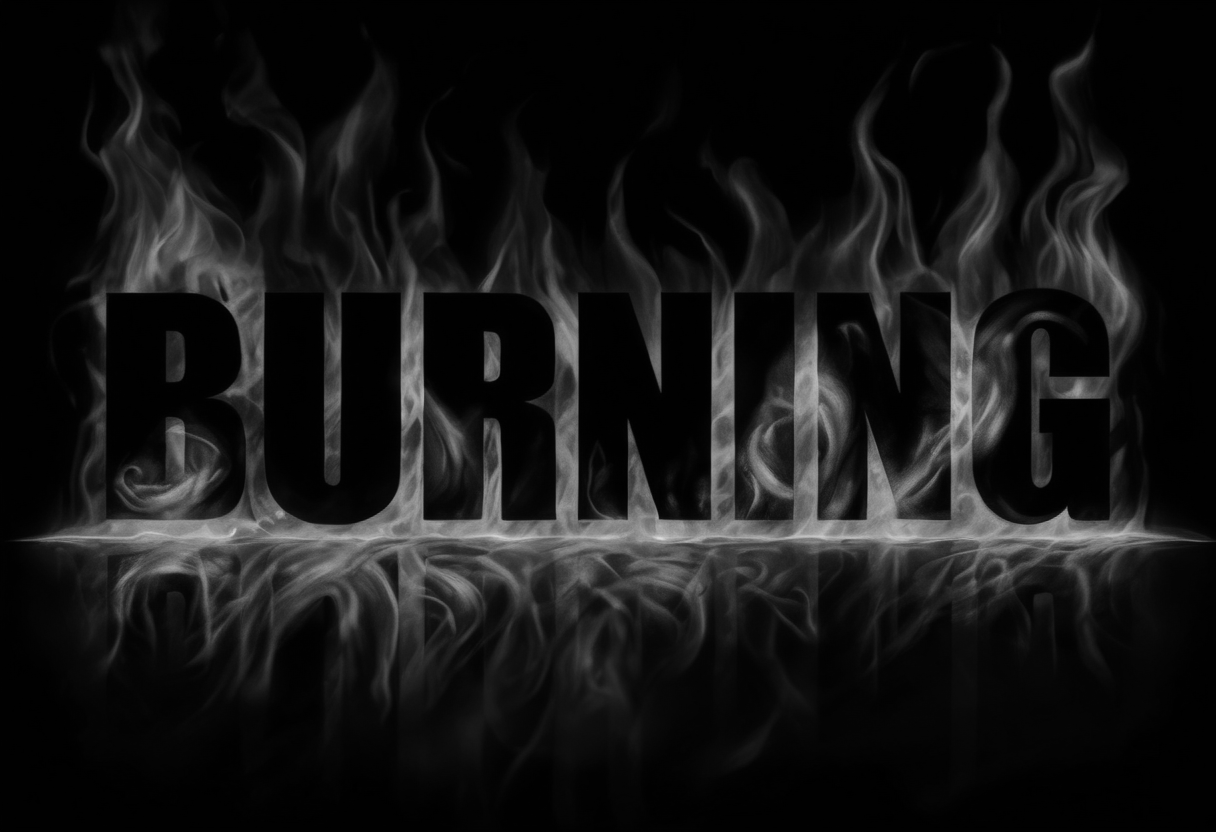
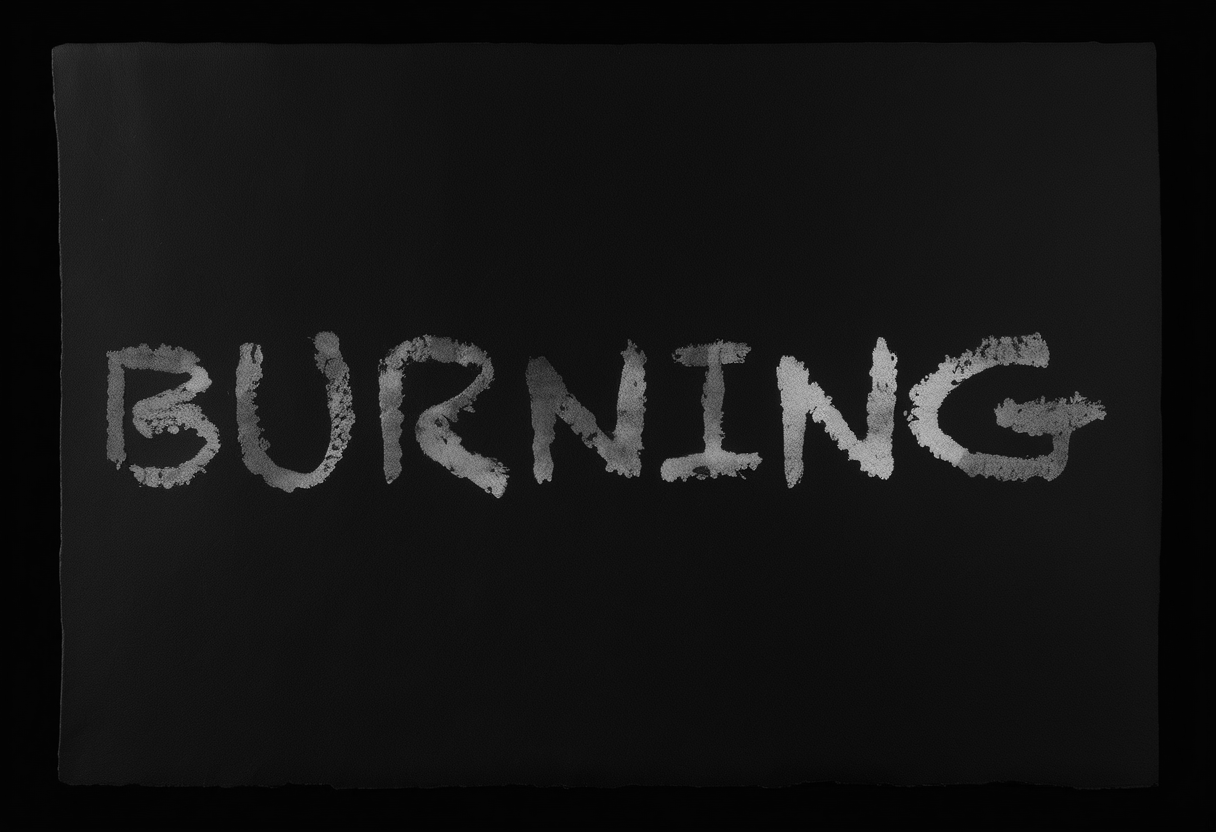
proof(BLUELINE): text-layer latest look — Chalkduster skeletons, negative-space, per-voice
The session's final aesthetic state synced from the (now-merging) text worktree: hand-drawn
Chalkduster skeletons, the negative-space knockout variants, the per-voice font skeletons
(skel-preview/), and the refreshed contact sheet. Regenerable from the committed scripts; kept
as the current best look. Co-Authored-By: Claude Opus 4.8 <noreply@anthropic.com>

Palace-Kind: ops
Palace-Verify: couldnt
Palace-Author: loudon
Palace-Annotated: commit-msg-hook

diff --git a/Projects/BLUELINE/proofs/text-layer/contact-sheet.html b/Projects/BLUELINE/proofs/text-layer/contact-sheet.html
@@ -1,1 +1,1 @@
-<!doctype html><meta charset=utf-8><title>BLUELINE — gen-AI text · contact sheet</title><style>body{background:#0b0b0d;color:#e9e7e2;font-family:JetBrains Mono,monospace;margin:0;padding:24px}h1{font-family:Anton,Impact,sans-serif;letter-spacing:.04em}section{margin:0 0 28px}h2{font-size:13px;color:#e0a83a;font-weight:400}h2 span{color:#8b8d96}h2 em{color:#e9e7e2;font-style:normal}.row{display:flex;gap:10px;flex-wrap:wrap}figure{margin:0}img{height:210px;background:#000;border:1px solid #2c2e36;border-radius:6px;display:block}figcaption{font-size:9px;color:#6a6c75;margin-top:3px}</style><h1>BLUELINE · gen-AI text on black — pick the keepers</h1><section><h2>ascension · <span>title · the system / author · awe, dread, ascent</span> <em>"ASCENSION"</em></h2><div class="row"><figure><img src="out/ascension_skeleton_s1111.png"><figcaption>ascension_skeleton_s1111.png</figcaption></figure><figure><img src="out/ascension_stylize_s1111.png"><figcaption>ascension_stylize_s1111.png</figcaption></figure></div></section><section><h2>shout-no · <span>dialogue · the hero's mouth · fury, anguish (max intensity)</span> <em>"NO"</em></h2><div class="row"><figure><img src="out/shout-no_skeleton_s1111.png"><figcaption>shout-no_skeleton_s1111.png</figcaption></figure><figure><img src="out/shout-no_stylize_s1111.png"><figcaption>shout-no_stylize_s1111.png</figcaption></figure></div></section><section><h2>whisper-stay · <span>dialogue · the dying woman's mouth · tenderness, fading (min intensity)</span> <em>"stay"</em></h2><div class="row"><figure><img src="out/whisper-stay_skeleton_s1111.png"><figcaption>whisper-stay_skeleton_s1111.png</figcaption></figure><figure><img src="out/whisper-stay_stylize_s1111.png"><figcaption>whisper-stay_stylize_s1111.png</figcaption></figure></div></section><section><h2>sfx-thoom · <span>sfx · the impact / the world · concussive force</span> <em>"THOOM"</em></h2><div class="row"><figure><img src="out/sfx-thoom_s1111.png"><figcaption>sfx-thoom_s1111.png</figcaption></figure><figure><img src="out/sfx-thoom_skeleton_s1111.png"><figcaption>sfx-thoom_skeleton_s1111.png</figcaption></figure><figure><img src="out/sfx-thoom_stylize_s1111.png"><figcaption>sfx-thoom_stylize_s1111.png</figcaption></figure></div></section><section><h2>dying-toolate · <span>voiceover / interior · the hero, hollowed · grief, collapse, letting go</span> <em>"too late"</em></h2><div class="row"><figure><img src="out/dying-toolate_skeleton_s1111.png"><figcaption>dying-toolate_skeleton_s1111.png</figcaption></figure><figure><img src="out/dying-toolate_stylize_s1111.png"><figcaption>dying-toolate_stylize_s1111.png</figcaption></figure></div></section><section><h2>lyric-burning · <span>lyric · the song · longing, heat, rising</span> <em>"BURNING"</em></h2><div class="row"><figure><img src="out/lyric-burning_skeleton_s1111.png"><figcaption>lyric-burning_skeleton_s1111.png</figcaption></figure><figure><img src="out/lyric-burning_stylize_s1111.png"><figcaption>lyric-burning_stylize_s1111.png</figcaption></figure></div></section><section><h2>thought-real · <span>thought / interior · the hero's mind · doubt, dissociation, cold</span> <em>"was it real"</em></h2><div class="row"><figure><img src="out/thought-real_skeleton_s1111.png"><figcaption>thought-real_skeleton_s1111.png</figcaption></figure><figure><img src="out/thought-real_stylize_s1111.png"><figcaption>thought-real_stylize_s1111.png</figcaption></figure></div></section>
+<!doctype html><meta charset=utf-8><title>BLUELINE — gen-AI text · contact sheet</title><style>body{background:#0b0b0d;color:#e9e7e2;font-family:JetBrains Mono,monospace;margin:0;padding:24px}h1{font-family:Anton,Impact,sans-serif;letter-spacing:.04em}section{margin:0 0 28px}h2{font-size:13px;color:#e0a83a;font-weight:400}h2 span{color:#8b8d96}h2 em{color:#e9e7e2;font-style:normal}.row{display:flex;gap:10px;flex-wrap:wrap}figure{margin:0}img{height:210px;background:#000;border:1px solid #2c2e36;border-radius:6px;display:block}figcaption{font-size:9px;color:#6a6c75;margin-top:3px}</style><h1>BLUELINE · gen-AI text on black — pick the keepers</h1><section><h2>ascension · <span>title · the system / author · awe, dread, ascent</span> <em>"ASCENSION"</em></h2><div class="row"><figure><img src="out/ascension_negspace_s1111.png"><figcaption>ascension_negspace_s1111.png</figcaption></figure><figure><img src="out/ascension_skeleton_s1111.png"><figcaption>ascension_skeleton_s1111.png</figcaption></figure><figure><img src="out/ascension_stylize_s1111.png"><figcaption>ascension_stylize_s1111.png</figcaption></figure></div></section><section><h2>shout-no · <span>dialogue · the hero's mouth · fury, anguish (max intensity)</span> <em>"NO"</em></h2><div class="row"><figure><img src="out/shout-no_negspace.png"><figcaption>shout-no_negspace.png</figcaption></figure><figure><img src="out/shout-no_negspace_s1111.png"><figcaption>shout-no_negspace_s1111.png</figcaption></figure><figure><img src="out/shout-no_skeleton_s1111.png"><figcaption>shout-no_skeleton_s1111.png</figcaption></figure><figure><img src="out/shout-no_stylize_s1111.png"><figcaption>shout-no_stylize_s1111.png</figcaption></figure></div></section><section><h2>whisper-stay · <span>dialogue · the dying woman's mouth · tenderness, fading (min intensity)</span> <em>"stay"</em></h2><div class="row"><figure><img src="out/whisper-stay_negspace.png"><figcaption>whisper-stay_negspace.png</figcaption></figure><figure><img src="out/whisper-stay_negspace_s1111.png"><figcaption>whisper-stay_negspace_s1111.png</figcaption></figure><figure><img src="out/whisper-stay_skeleton_s1111.png"><figcaption>whisper-stay_skeleton_s1111.png</figcaption></figure><figure><img src="out/whisper-stay_stylize_s1111.png"><figcaption>whisper-stay_stylize_s1111.png</figcaption></figure></div></section><section><h2>sfx-thoom · <span>sfx · the impact / the world · concussive force</span> <em>"THOOM"</em></h2><div class="row"><figure><img src="out/sfx-thoom_negspace_s1111.png"><figcaption>sfx-thoom_negspace_s1111.png</figcaption></figure><figure><img src="out/sfx-thoom_s1111.png"><figcaption>sfx-thoom_s1111.png</figcaption></figure><figure><img src="out/sfx-thoom_skeleton_s1111.png"><figcaption>sfx-thoom_skeleton_s1111.png</figcaption></figure><figure><img src="out/sfx-thoom_stylize_s1111.png"><figcaption>sfx-thoom_stylize_s1111.png</figcaption></figure></div></section><section><h2>dying-toolate · <span>voiceover / interior · the hero, hollowed · grief, collapse, letting go</span> <em>"too late"</em></h2><div class="row"><figure><img src="out/dying-toolate_negspace_s1111.png"><figcaption>dying-toolate_negspace_s1111.png</figcaption></figure><figure><img src="out/dying-toolate_skeleton_s1111.png"><figcaption>dying-toolate_skeleton_s1111.png</figcaption></figure><figure><img src="out/dying-toolate_stylize_s1111.png"><figcaption>dying-toolate_stylize_s1111.png</figcaption></figure></div></section><section><h2>lyric-burning · <span>lyric · the song · longing, heat, rising</span> <em>"BURNING"</em></h2><div class="row"><figure><img src="out/lyric-burning_negspace_s1111.png"><figcaption>lyric-burning_negspace_s1111.png</figcaption></figure><figure><img src="out/lyric-burning_skeleton_s1111.png"><figcaption>lyric-burning_skeleton_s1111.png</figcaption></figure><figure><img src="out/lyric-burning_stylize_s1111.png"><figcaption>lyric-burning_stylize_s1111.png</figcaption></figure></div></section><section><h2>thought-real · <span>thought / interior · the hero's mind · doubt, dissociation, cold</span> <em>"was it real"</em></h2><div class="row"><figure><img src="out/thought-real_negspace_s1111.png"><figcaption>thought-real_negspace_s1111.png</figcaption></figure><figure><img src="out/thought-real_skeleton_s1111.png"><figcaption>thought-real_skeleton_s1111.png</figcaption></figure><figure><img src="out/thought-real_stylize_s1111.png"><figcaption>thought-real_stylize_s1111.png</figcaption></figure></div></section>
